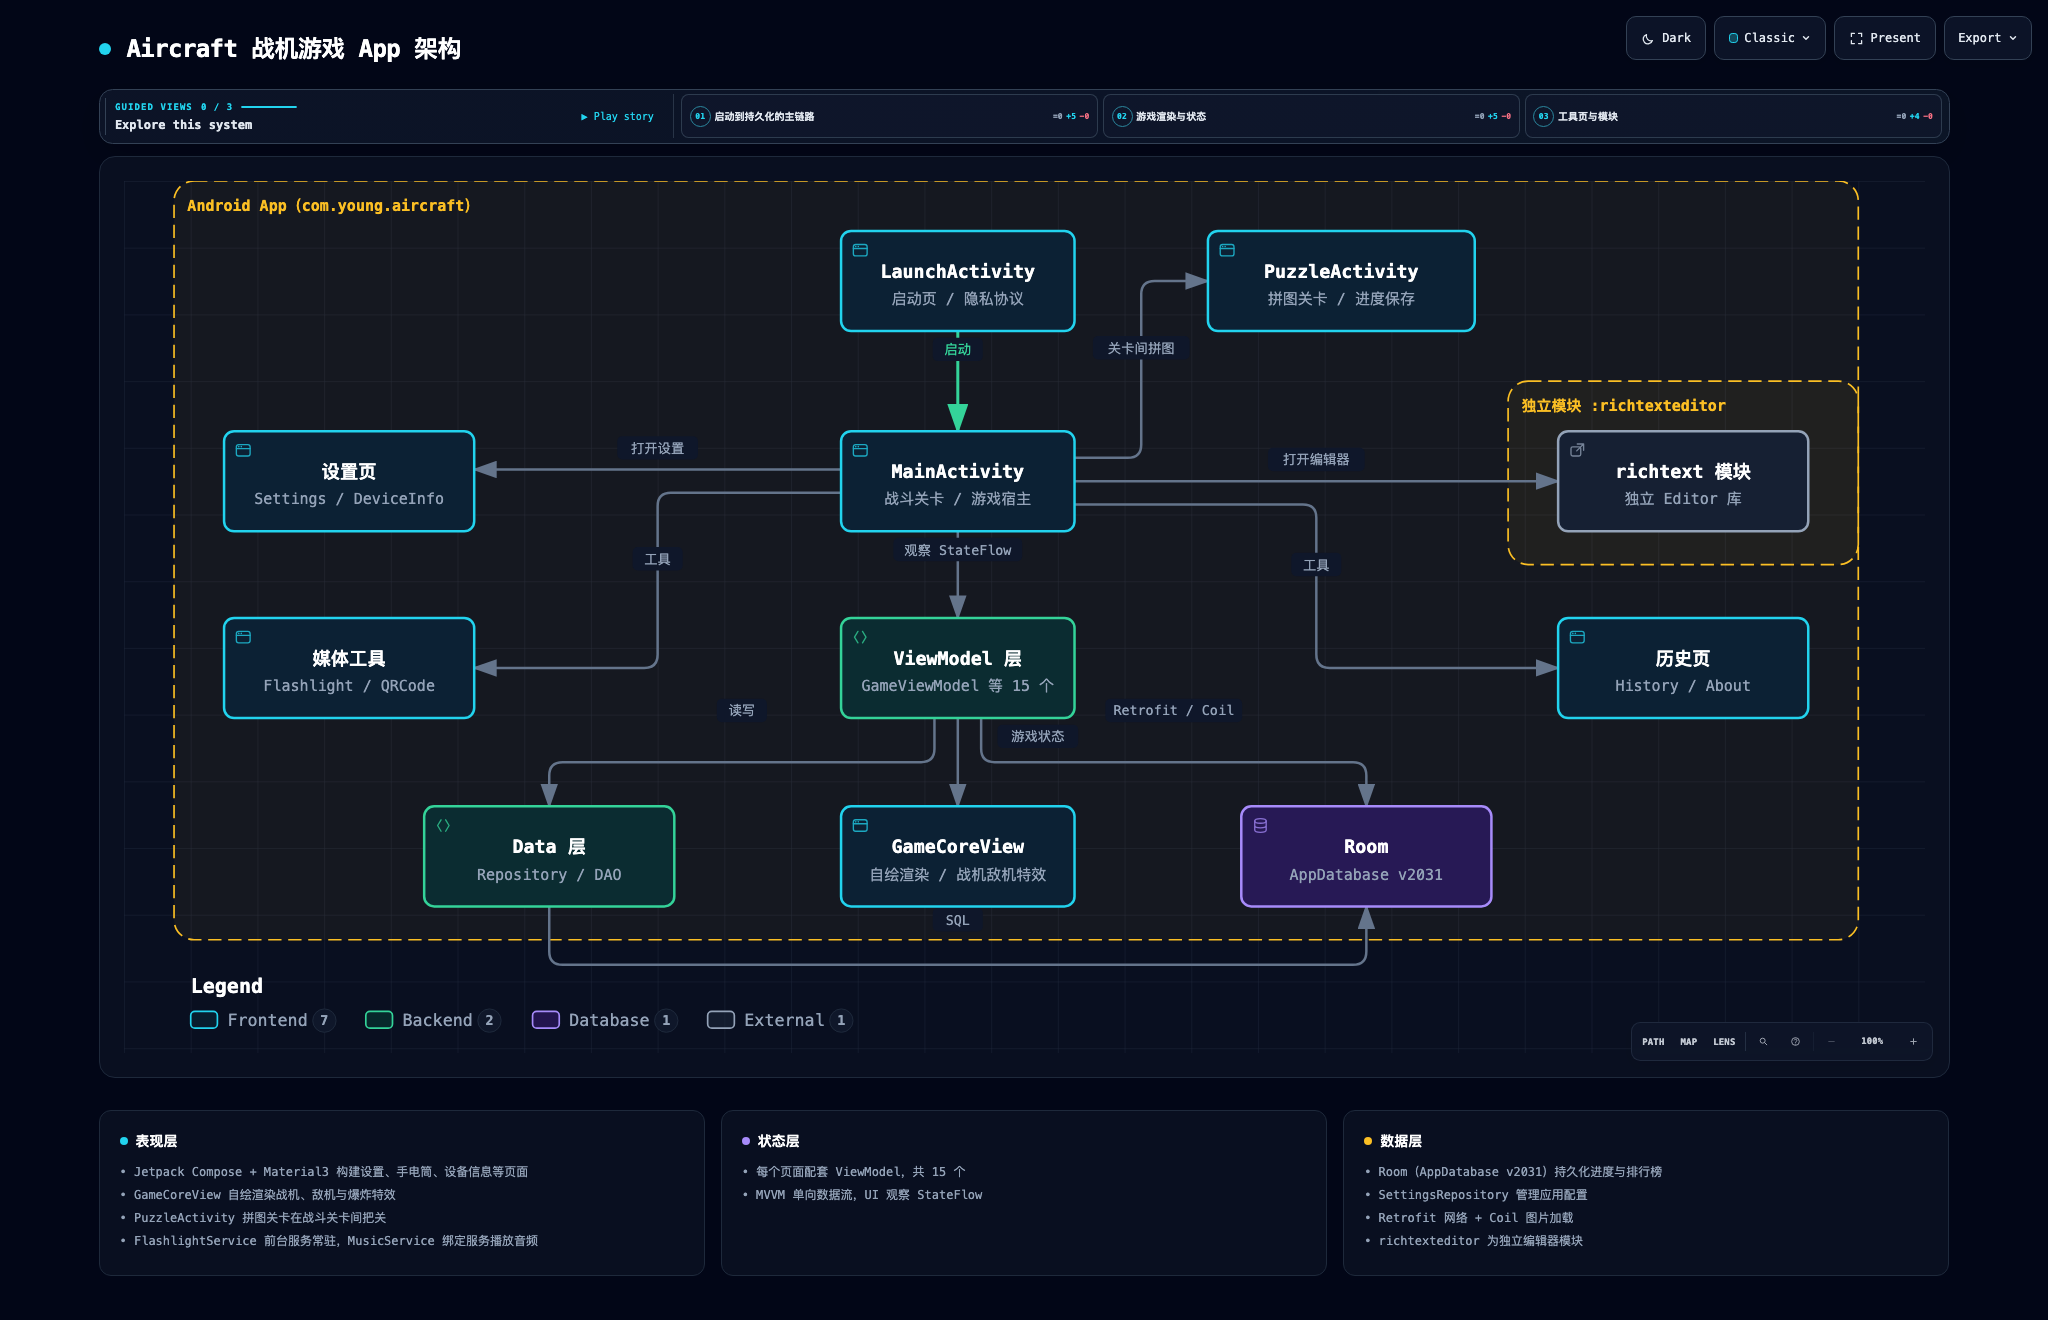
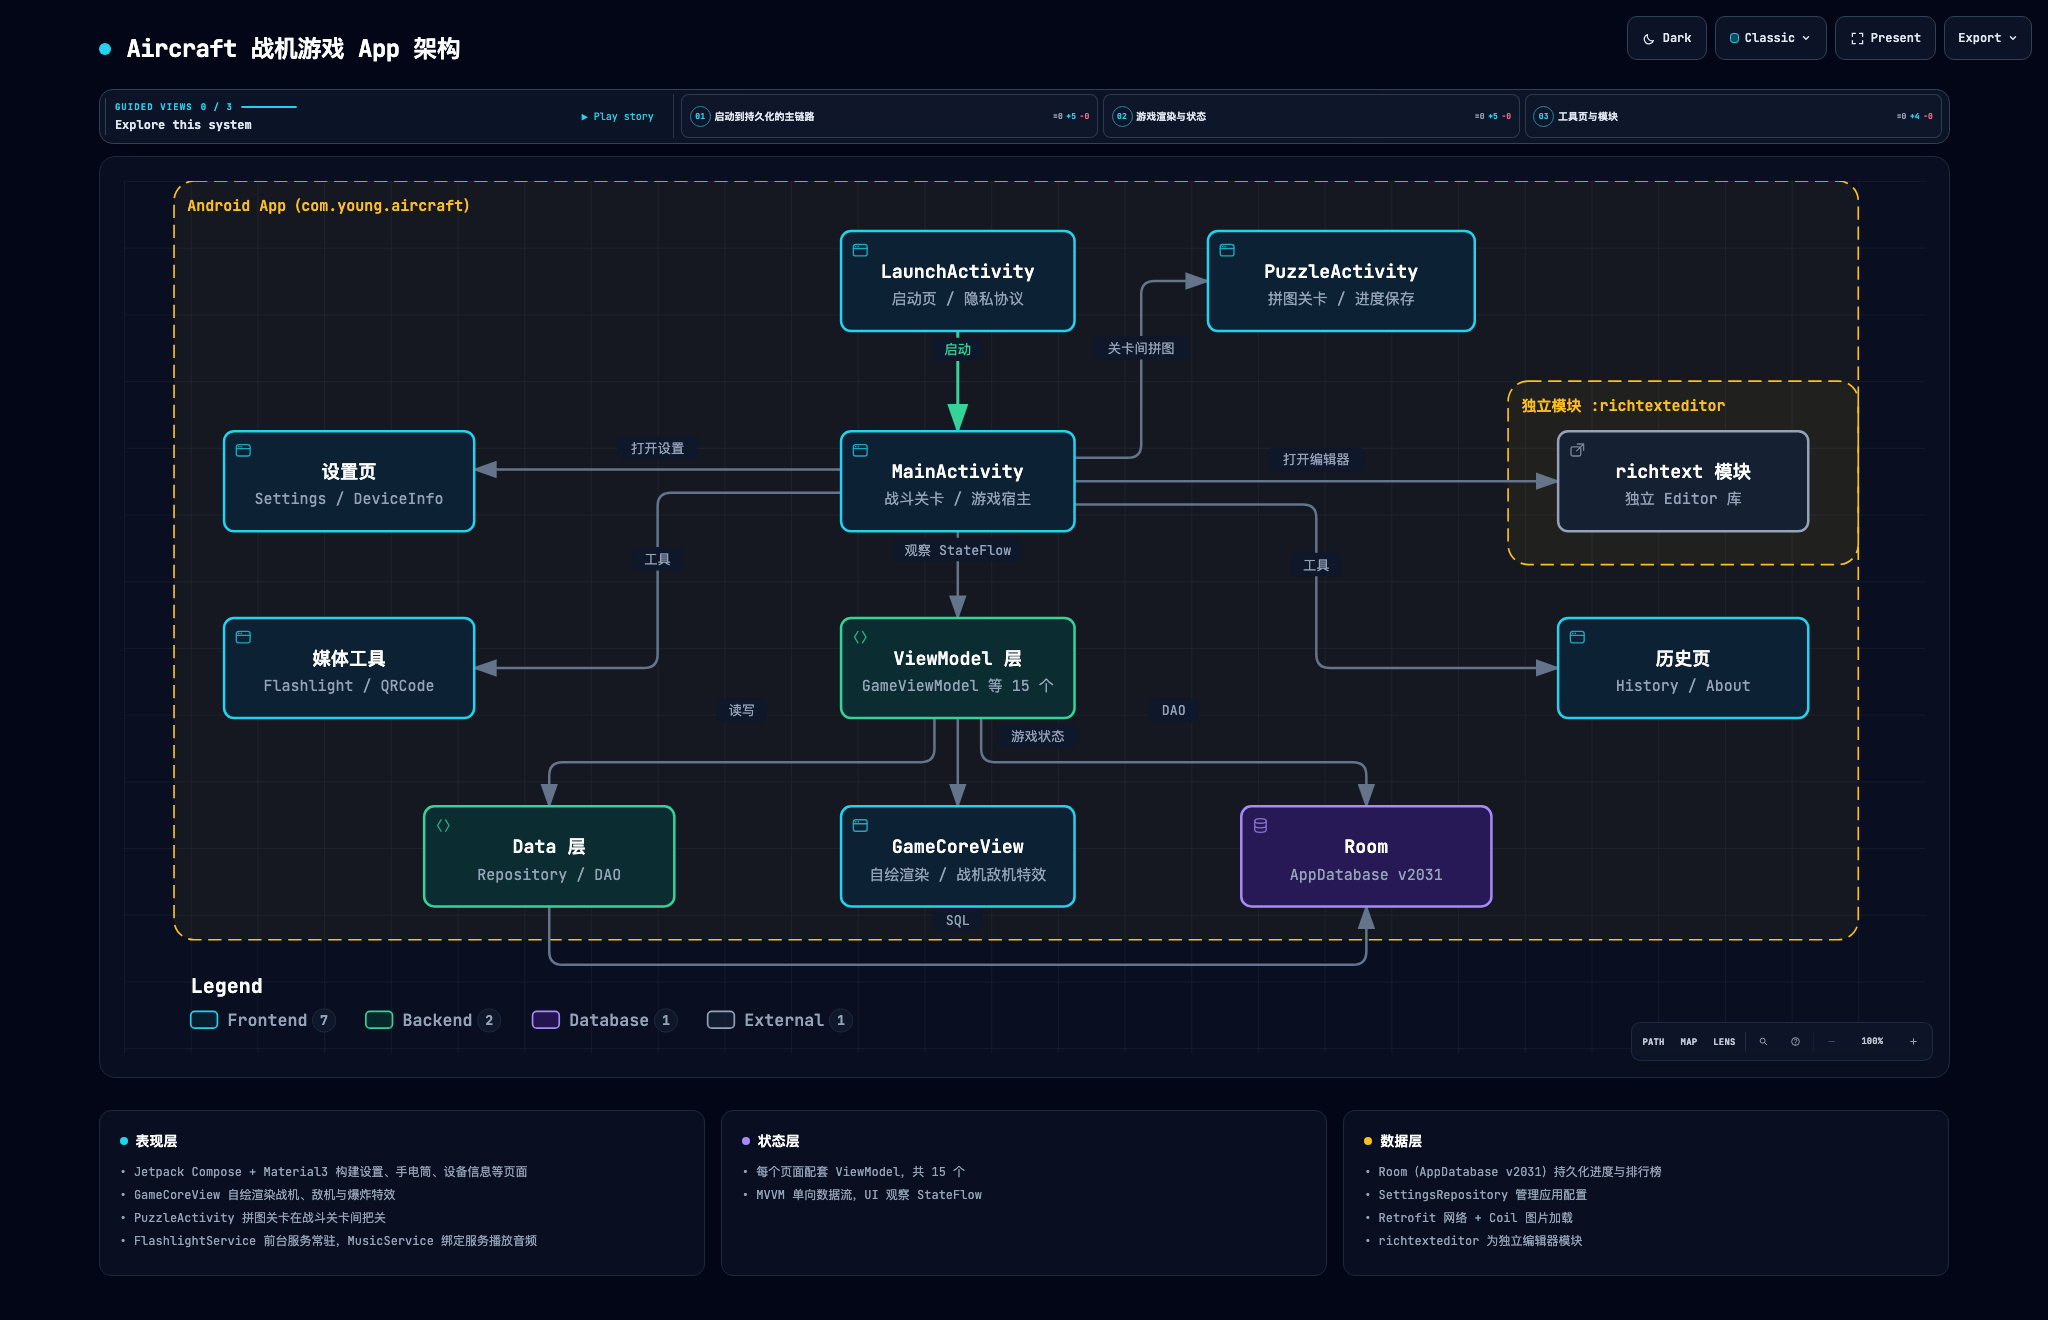
upgrade to compose UI

diff --git a/app/src/main/java/com/young/aircraft/gui/GameHudScreen.kt b/app/src/main/java/com/young/aircraft/gui/GameHudScreen.kt
@@ -40,6 +40,7 @@ import androidx.compose.ui.draw.shadow
 import androidx.compose.ui.graphics.Brush
 import androidx.compose.ui.graphics.Color
 import androidx.compose.ui.graphics.graphicsLayer
+import androidx.compose.ui.graphics.lerp
 import androidx.compose.ui.res.stringResource
 import androidx.compose.ui.text.font.FontFamily
 import androidx.compose.ui.text.font.FontWeight
@@ -61,14 +62,14 @@ class GameHudState {
     var paused by mutableStateOf(false)
 }
 
-private val ChipGradientStart = Color(0xF019B565)
-private val ChipGradientEnd = Color(0xF0107A4A)
-private val ChipStroke = Color(0x9938E08D)
+// Pure default-theme green, kept as the preview accent reference.
 private val ChipTextGreen = Color(0xFF00FF88)
-private val HintCardTop = Color(0xE6112E21)
-private val HintCardBottom = Color(0xCC07150F)
-private val HintCardStroke = Color(0x4D39D17A)
-private val MetaChipFill = Color(0x201AFF8A)
+
+// HUD accent-tinted slots derive from the theme accent. Dark blends keep the
+// original translucent card look over the game surface.
+private val HudDarkBase = Color(0xFF0C1116)
+private fun accentBlend(accent: Color, mix: Float, alpha: Float = 1f) =
+    lerp(HudDarkBase, accent, mix).copy(alpha = alpha)
 
 /**
  * Fullscreen HUD overlay on top of the GameCoreView surface: top scrim,
@@ -97,7 +98,7 @@ fun GameHudOverlay(
         Box(modifier = Modifier.align(Alignment.TopEnd).padding(top = 84.dp, end = 18.dp)) {
             Text(
                 text = stringResource(R.string.game_hud_pause),
-                color = ChipTextGreen,
+                color = accent,
                 fontSize = 13.sp,
                 fontWeight = FontWeight.Bold,
                 modifier = Modifier
@@ -120,23 +121,37 @@ fun GameHudOverlay(
                 delay(4200)
                 state.showTip = false
             }
-            MissionBriefingCard(sectorChip, difficultyChip, airframeChip)
+            MissionBriefingCard(accent, sectorChip, difficultyChip, airframeChip)
         }
         PauseOverlay(state, accent, onResume, onQuit)
     }
 }
 
 @Composable
-private fun MissionBriefingCard(sectorChip: String, difficultyChip: String, airframeChip: String) {
+private fun MissionBriefingCard(
+    accent: Color,
+    sectorChip: String,
+    difficultyChip: String,
+    airframeChip: String
+) {
+    val cardGradient = listOf(
+        accentBlend(accent, 0.13f, 0xE6 / 255f),
+        accentBlend(accent, 0.05f, 0xCC / 255f)
+    )
+    val cardStroke = accent.copy(alpha = 0x4D / 255f)
+    val badgeGradient = listOf(
+        lerp(accent, Color.Black, 0.28f).copy(alpha = 0xF0 / 255f),
+        lerp(accent, Color.Black, 0.52f).copy(alpha = 0xF0 / 255f)
+    )
     Column(
         Modifier
             .fillMaxWidth()
             .shadow(8.dp, RoundedCornerShape(20.dp))
             .background(
-                Brush.verticalGradient(listOf(HintCardTop, HintCardBottom)),
+                Brush.verticalGradient(cardGradient),
                 RoundedCornerShape(20.dp)
             )
-            .border(1.dp, HintCardStroke, RoundedCornerShape(20.dp))
+            .border(1.dp, cardStroke, RoundedCornerShape(20.dp))
             .padding(start = 18.dp, top = 14.dp, end = 18.dp, bottom = 14.dp)
     ) {
         Text(
@@ -147,10 +162,10 @@ private fun MissionBriefingCard(sectorChip: String, difficultyChip: String, airf
             fontFamily = FontFamily.Monospace,
             modifier = Modifier
                 .background(
-                    Brush.horizontalGradient(listOf(ChipGradientStart, ChipGradientEnd)),
+                    Brush.horizontalGradient(badgeGradient),
                     RoundedCornerShape(22.dp)
                 )
-                .border(1.dp, ChipStroke, RoundedCornerShape(22.dp))
+                .border(1.dp, accent.copy(alpha = 0x99 / 255f), RoundedCornerShape(22.dp))
                 .padding(start = 10.dp, top = 5.dp, end = 10.dp, bottom = 5.dp)
         )
         Text(
@@ -166,7 +181,7 @@ private fun MissionBriefingCard(sectorChip: String, difficultyChip: String, airf
         )
         Text(
             text = stringResource(R.string.game_hud_tip_subtitle),
-            color = Color(0xB8E8D0),
+            color = Color.White.copy(alpha = 0xB8 / 255f),
             fontSize = 12.sp,
             fontFamily = FontFamily.Monospace,
             modifier = Modifier
@@ -180,15 +195,15 @@ private fun MissionBriefingCard(sectorChip: String, difficultyChip: String, airf
             horizontalArrangement = Arrangement.spacedBy(8.dp),
             verticalArrangement = Arrangement.spacedBy(8.dp)
         ) {
-            MetaChip(sectorChip)
-            MetaChip(difficultyChip)
-            MetaChip(airframeChip)
+            MetaChip(accent, sectorChip)
+            MetaChip(accent, difficultyChip)
+            MetaChip(accent, airframeChip)
         }
     }
 }
 
 @Composable
-private fun MetaChip(text: String) {
+private fun MetaChip(accent: Color, text: String) {
     Text(
         text = text,
         color = Color(0xFFE8FFF2),
@@ -196,8 +211,8 @@ private fun MetaChip(text: String) {
         fontWeight = FontWeight.Bold,
         fontFamily = FontFamily.Monospace,
         modifier = Modifier
-            .background(MetaChipFill, RoundedCornerShape(16.dp))
-            .border(1.dp, HintCardStroke, RoundedCornerShape(16.dp))
+            .background(accent.copy(alpha = 0x20 / 255f), RoundedCornerShape(16.dp))
+            .border(1.dp, accent.copy(alpha = 0x4D / 255f), RoundedCornerShape(16.dp))
             .padding(start = 12.dp, top = 7.dp, end = 12.dp, bottom = 7.dp)
     )
 }

diff --git a/docs/aircraft-architecture.html b/docs/aircraft-architecture.html
@@ -4925,7 +4925,7 @@
         <path data-edge-from="home" data-edge-to="history" data-edge-label="工具" data-edge-key="6" data-edge-id="home-history" data-composition-points="570,194;715,194;715,292;860,292" d="M 570 194 L 707 194 Q 715 194 715 202 L 715 284 Q 715 292 723 292 L 860 292" class="a-default" stroke-width="1.5" marker-end="url(#arrowhead)"/>
         <path data-edge-from="viewmodel" data-edge-to="game" data-edge-label="游戏状态" data-edge-key="7" data-edge-id="viewmodel-game" data-composition-points="500,322;500,375" d="M 500 322 L 500 375" class="a-default" stroke-width="1.5" marker-end="url(#arrowhead)"/>
         <path data-edge-from="viewmodel" data-edge-to="data" data-edge-label="读写" data-edge-key="8" data-edge-id="viewmodel-data" data-composition-points="486,322;486,348.5;255,348.5;255,375" d="M 486 322 L 486 340.5 Q 486 348.5 478 348.5 L 263 348.5 Q 255 348.5 255 356.5 L 255 375" class="a-default" stroke-width="1.5" marker-end="url(#arrowhead)"/>
-        <path data-edge-from="viewmodel" data-edge-to="room" data-edge-label="Retrofit / Coil" data-edge-key="9" data-edge-id="viewmodel-room" data-composition-points="514,322;514,348.5;745,348.5;745,375" d="M 514 322 L 514 340.5 Q 514 348.5 522 348.5 L 737 348.5 Q 745 348.5 745 356.5 L 745 375" class="a-default" stroke-width="1.5" marker-end="url(#arrowhead)"/>
+        <path data-edge-from="viewmodel" data-edge-to="room" data-edge-label="DAO" data-edge-key="9" data-edge-id="viewmodel-room" data-composition-points="514,322;514,348.5;745,348.5;745,375" d="M 514 322 L 514 340.5 Q 514 348.5 522 348.5 L 737 348.5 Q 745 348.5 745 356.5 L 745 375" class="a-default" stroke-width="1.5" marker-end="url(#arrowhead)"/>
         <path data-edge-from="data" data-edge-to="room" data-edge-label="SQL" data-edge-key="10" data-edge-id="data-room" data-composition-points="255,435;255,470;745,470;745,435" d="M 255 435 L 255 462 Q 255 470 263 470 L 737 470 Q 745 470 745 462 L 745 435" class="a-default" stroke-width="1.5" marker-end="url(#arrowhead)"/>
 
         <!-- Components -->
@@ -5111,9 +5111,9 @@
           <rect x="355.5" y="310.5" width="30" height="14" rx="3" class="c-mask"/>
           <text x="370.5" y="320.5" class="t-muted" font-size="8" text-anchor="middle">读写</text>
         </g>
-        <g data-detail="context" data-edge-from="viewmodel" data-edge-to="room" data-edge-label="Retrofit / Coil" data-edge-key="9" data-edge-id="viewmodel-room">
-          <rect x="588.5" y="310.5" width="82" height="14" rx="3" class="c-mask"/>
-          <text x="629.5" y="320.5" class="t-muted" font-size="8" text-anchor="middle">Retrofit / Coil</text>
+        <g data-detail="context" data-edge-from="viewmodel" data-edge-to="room" data-edge-label="DAO" data-edge-key="9" data-edge-id="viewmodel-room">
+          <rect x="614.5" y="310.5" width="30" height="14" rx="3" class="c-mask"/>
+          <text x="629.5" y="320.5" class="t-muted" font-size="8" text-anchor="middle">DAO</text>
         </g>
         <g data-detail="context" data-edge-from="data" data-edge-to="room" data-edge-label="SQL" data-edge-key="10" data-edge-id="data-room">
           <rect x="485" y="436" width="30" height="14" rx="3" class="c-mask"/>

diff --git a/app/src/main/java/com/young/aircraft/gui/HistoryActivity.kt b/app/src/main/java/com/young/aircraft/gui/HistoryActivity.kt
@@ -424,6 +424,8 @@ private fun RecordCard(
 ) {
     val isTopRecord = index == 0
     val accent = if (isTopRecord) TopGold else RAINBOW_COLORS[index % RAINBOW_COLORS.size]
+    // TOP RUN pill follows the live theme accent; gold/rainbow card accents are medal semantics.
+    val themeAccent = MaterialTheme.colorScheme.primary
 
     Surface(
         modifier = modifier,
@@ -470,12 +472,12 @@ private fun RecordCard(
                             modifier = Modifier
                                 .padding(start = 8.dp)
                                 .background(
-                                    color = Color(0x2900FF88),
+                                    color = themeAccent.copy(alpha = 0x29 / 255f),
                                     shape = RoundedCornerShape(percent = 50)
                                 )
                                 .border(
                                     width = 1.dp,
-                                    color = Color(0x6600FF88),
+                                    color = themeAccent.copy(alpha = 0x66 / 255f),
                                     shape = RoundedCornerShape(percent = 50)
                                 )
                                 .padding(start = 8.dp, end = 10.dp, top = 4.dp, bottom = 4.dp),

diff --git a/app/src/main/java/com/young/aircraft/gui/AboutAircraftActivity.kt b/app/src/main/java/com/young/aircraft/gui/AboutAircraftActivity.kt
@@ -63,14 +63,19 @@ import com.young.aircraft.viewmodel.ImageLoadState
 
 // Panel visuals lifted from device_info_hero_bg / device_info_card_bg /
 // device_info_item_bg / the legacy outlined MaterialButton styling.
-private val HeroBg = Color(0x3300FF88)
+// Accent-tinted slots derive from the live theme accent instead of hardcoded green.
+private val HeroBg: Color
+    @Composable get() = AccentGreen.copy(alpha = 0x33 / 255f)
 private val CardBg = Color(0x20252A3A)
-private val CardBorder = Color(0x2200FF88)
+private val CardBorder: Color
+    @Composable get() = AccentGreen.copy(alpha = 0x22 / 255f)
 private val ItemBg = Color(0x1A252A3A)
 private val ItemBorder = Color(0x33FFFFFF)
 private val GaugeBg = Color(0x18FFFFFF)
-private val CtaBg = Color(0x2600FF88)
-private val CtaBorder = Color(0x6600FF88)
+private val CtaBg: Color
+    @Composable get() = AccentGreen.copy(alpha = 0x26 / 255f)
+private val CtaBorder: Color
+    @Composable get() = AccentGreen.copy(alpha = 0x66 / 255f)
 private val SpecLabel = Color(0x88FFFFFF)
 private val SectionLabel = Color(0x66FFFFFF)
 private val SpecDivider = Color(0x10FFFFFF)

diff --git a/app/src/test/java/com/young/aircraft/gui/PrivacyPolicyAcceptActivityTest.kt b/app/src/test/java/com/young/aircraft/gui/PrivacyPolicyAcceptActivityTest.kt
@@ -145,6 +145,17 @@ class PrivacyPolicyAcceptActivityTest {
     }
 
     @Test
+    fun `accept and reject buttons have equal width`() {
+        tick()
+
+        val acceptWidth = composeTestRule.onNodeWithTag("btn_accept")
+            .fetchSemanticsNode().boundsInRoot.width
+        val rejectWidth = composeTestRule.onNodeWithTag("btn_reject")
+            .fetchSemanticsNode().boundsInRoot.width
+        assertEquals(acceptWidth, rejectWidth, 1f)
+    }
+
+    @Test
     fun `reaching document end unlocks accept which saves pref and routes to onboarding`() {
         tick()
 

diff --git a/app/src/main/java/com/young/aircraft/gui/PrivacyPolicyAcceptActivity.kt b/app/src/main/java/com/young/aircraft/gui/PrivacyPolicyAcceptActivity.kt
@@ -303,7 +303,8 @@ internal fun BottomActions(unlocked: Boolean, onAccept: () -> Unit, onReject: ()
                 contentColor = RejectRed,
                 border = BorderStroke(1.dp, RejectRed),
                 onClick = onReject,
-                testTag = "btn_reject"
+                testTag = "btn_reject",
+                modifier = Modifier.weight(1f)
             )
         }
     }

diff --git a/ChangeLogs.md b/ChangeLogs.md
@@ -12,6 +12,7 @@ All notable changes to this project will be documented in this file.
 - Enabled R8 code shrinking and resource shrinking for release builds (`isMinifyEnabled = true`, `isShrinkResources = true`), reducing the release APK from ~45 MB to ~16 MB; Crashlytics receives the R8 mapping file automatically so obfuscated release stack traces remain retraceable
 
 ### Fixed
+- Privacy policy accept and reject buttons now share equal width (`Modifier.weight(1f)`) instead of accept stretching to fill remaining space
 - Clear-cache Cancel now dismisses the dialog even when no negative-action callback is supplied; shared dialog hosts provide the dismissal action
 - Dialogs hosted in separate Compose roots now inherit the saved theme rather than default Material colors
 - Release builds failed at `produceReleaseComposeMapping` with `Could not find org.jetbrains.kotlin:compose-group-mapping:2.2.10` (AGP's bundled KGP version; that artifact is only published from KGP 2.3.0+). Fixed by raising the built-in Kotlin Gradle plugin to `2.4.10` via a `buildscript` classpath dependency, matching the Compose compiler plugin version
